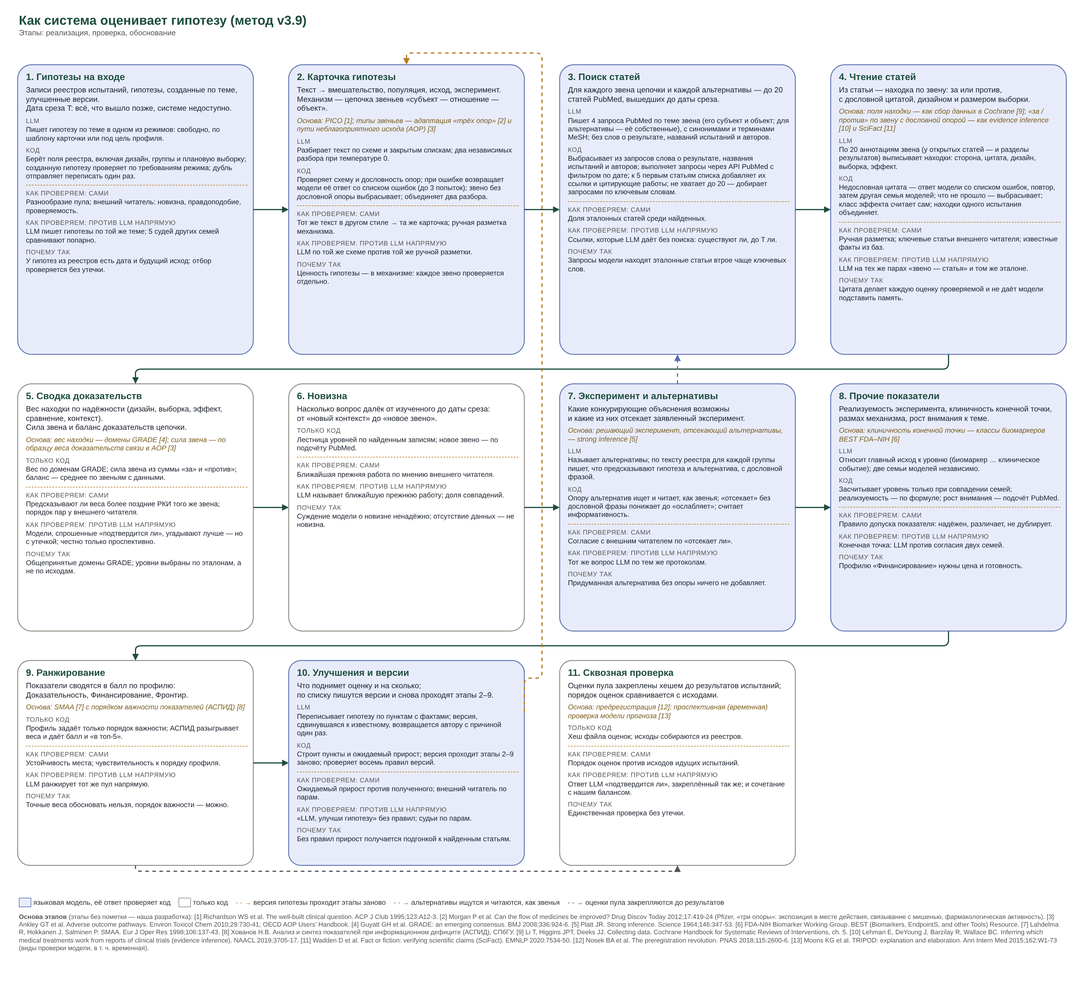
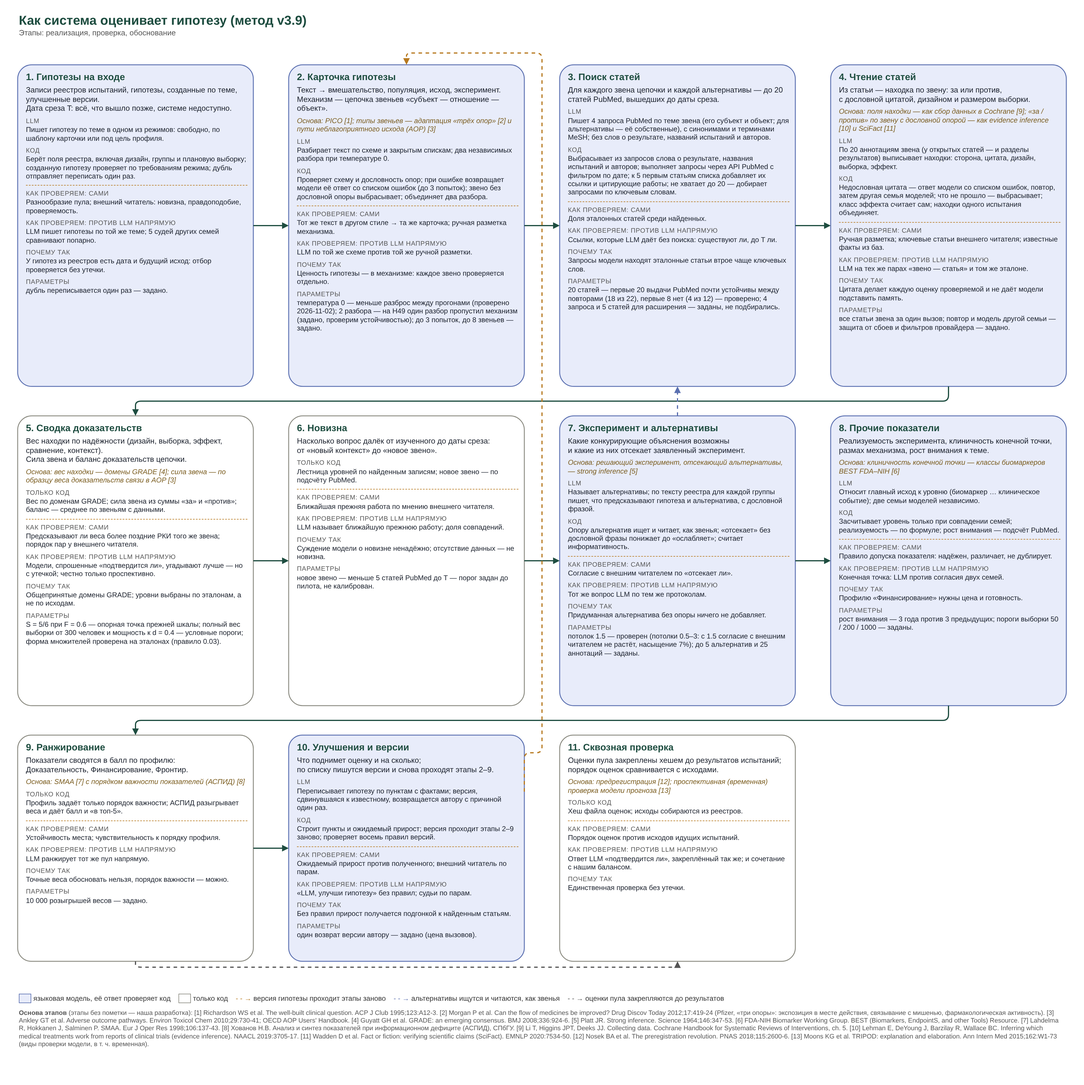
Normaliser v11: a direction for value links (changes_biomarker only without a stated direction); flow scheme: parameters with their provenance per stage; backlog: consensus phrases, H49 re-run, untuned hyperparameters
Claude-Session: https://claude.ai/code/session_015QaY8wcM8f6FoFe6WxnTtU

diff --git a/docs/system/build_flow.py b/docs/system/build_flow.py
@@ -15,7 +15,7 @@ D = Path(__file__).resolve().parent
 
 # stage: name, kind ("llm" = a language model with code checks, "code" = code only), base lines, layers
 STAGES = [
-    dict(name="1. Гипотезы на входе", kind="llm",
+    dict(name="1. Гипотезы на входе", params="дубль переписывается один раз — задано.", kind="llm",
          base=["Записи реестров испытаний, гипотезы, созданные по теме, улучшенные версии.",
                "Дата среза T: всё, что вышло позже, системе недоступно."],
          llm=["Пишет гипотезу по теме в одном из режимов: свободно, по шаблону карточки или под цель профиля."],
@@ -23,7 +23,7 @@ STAGES = [
          own=["Разнообразие пула; внешний читатель: новизна, правдоподобие, проверяемость."],
          base_llm=["LLM пишет гипотезы по той же теме; 5 судей других семей сравнивают попарно."],
          why=["У гипотез из реестров есть дата и будущий исход: отбор проверяется без утечки."]),
-    dict(name="2. Карточка гипотезы", basis="PICO [1]; типы звеньев — адаптация «трёх опор» [2] и пути неблагоприятного исхода (AOP) [3]", kind="llm",
+    dict(name="2. Карточка гипотезы", params="температура 0 — меньше разброс между прогонами (проверено 2026-11-02); 2 разбора — на H49 один разбор пропустил механизм (задано, проверим устойчивостью); до 3 попыток, до 8 звеньев — задано.", basis="PICO [1]; типы звеньев — адаптация «трёх опор» [2] и пути неблагоприятного исхода (AOP) [3]", kind="llm",
          base=["Текст → вмешательство, популяция, исход, эксперимент.",
                "Механизм — цепочка звеньев «субъект — отношение — объект»."],
          llm=['Разбирает текст по схеме и закрытым спискам; два независимых разбора при температуре 0.'],
@@ -31,14 +31,14 @@ STAGES = [
          own=["Тот же текст в другом стиле → та же карточка; ручная разметка механизма."],
          base_llm=["LLM по той же схеме против той же ручной разметки."],
          why=["Ценность гипотезы — в механизме: каждое звено проверяется отдельно."]),
-    dict(name="3. Поиск статей", kind="llm",
+    dict(name="3. Поиск статей", params="20 статей — первые 20 выдачи PubMed почти устойчивы между повторами (18 из 22), первые 8 нет (4 из 12) — проверено; 4 запроса и 5 статей для расширения — заданы, не подбирались.", kind="llm",
          base=["Для каждого звена цепочки и каждой альтернативы — до 20 статей PubMed, вышедших до даты среза."],
          llm=['Пишет 4 запроса PubMed по теме звена (его субъект и объект; для альтернативы — её собственные), с синонимами и терминами MeSH; без слов о результате, названий испытаний и авторов.'],
          code=['Выбрасывает из запросов слова о результате, названия испытаний и авторов; выполняет запросы через API PubMed с фильтром по дате; к 5 первым статьям списка добавляет их ссылки и цитирующие работы; не хватает до 20 — добирает запросами по ключевым словам.'],
          own=["Доля эталонных статей среди найденных."],
          base_llm=["Ссылки, которые LLM даёт без поиска: существуют ли, до T ли."],
          why=["Запросы модели находят эталонные статьи втрое чаще ключевых слов."]),
-    dict(name="4. Чтение статей", basis="поля находки — как сбор данных в Cochrane [9]; «за / против» по звену с дословной опорой — как evidence inference [10] и SciFact [11]", kind="llm",
+    dict(name="4. Чтение статей", params="все статьи звена за один вызов; повтор и модель другой семьи — защита от сбоев и фильтров провайдера — задано.", basis="поля находки — как сбор данных в Cochrane [9]; «за / против» по звену с дословной опорой — как evidence inference [10] и SciFact [11]", kind="llm",
          base=["Из статьи — находка по звену: за или против,",
                "с дословной цитатой, дизайном и размером выборки."],
          llm=['По 20 аннотациям звена (у открытых статей — и разделы результатов) выписывает находки: сторона, цитата, дизайн, выборка, эффект.'],
@@ -46,21 +46,21 @@ STAGES = [
          own=["Ручная разметка; ключевые статьи внешнего читателя; известные факты из баз."],
          base_llm=["LLM на тех же парах «звено — статья» и том же эталоне."],
          why=["Цитата делает каждую оценку проверяемой и не даёт модели подставить память."]),
-    dict(name="5. Сводка доказательств", basis="вес находки — домены GRADE [4]; сила звена — по образцу веса доказательств связи в AOP [3]", kind="code",
+    dict(name="5. Сводка доказательств", params="S = 5/6 при F = 0.6 — опорная точка прежней шкалы; полный вес выборки от 300 человек и мощность к d = 0.4 — условные пороги; форма множителей проверена на эталонах (правило 0.03).", basis="вес находки — домены GRADE [4]; сила звена — по образцу веса доказательств связи в AOP [3]", kind="code",
          base=["Вес находки по надёжности (дизайн, выборка, эффект, сравнение, контекст).",
                "Сила звена и баланс доказательств цепочки."],
          code=["Вес по доменам GRADE; сила звена из суммы «за» и «против»; баланс — среднее по звеньям с данными."],
          own=["Предсказывают ли веса более поздние РКИ того же звена; порядок пар у внешнего читателя."],
          base_llm=["Модели, спрошенные «подтвердится ли», угадывают лучше — но с утечкой; честно только проспективно."],
          why=["Общепринятые домены GRADE; уровни выбраны по эталонам, а не по исходам."]),
-    dict(name="6. Новизна", kind="code",
+    dict(name="6. Новизна", params="новое звено — меньше 5 статей PubMed до T — порог задан до пилота, не калиброван.", kind="code",
          base=["Насколько вопрос далёк от изученного до даты среза:",
                "от «новый контекст» до «новое звено»."],
          code=["Лестница уровней по найденным записям; новое звено — по подсчёту PubMed."],
          own=["Ближайшая прежняя работа по мнению внешнего читателя."],
          base_llm=["LLM называет ближайшую прежнюю работу; доля совпадений."],
          why=["Суждение модели о новизне ненадёжно; отсутствие данных — не новизна."]),
-    dict(name="7. Эксперимент и альтернативы", basis="решающий эксперимент, отсекающий альтернативы, — strong inference [5]", kind="llm",
+    dict(name="7. Эксперимент и альтернативы", params="потолок 1.5 — проверен (потолки 0.5–3: с 1.5 согласие с внешним читателем не растёт, насыщение 7%); до 5 альтернатив и 25 аннотаций — заданы.", basis="решающий эксперимент, отсекающий альтернативы, — strong inference [5]", kind="llm",
          base=["Какие конкурирующие объяснения возможны",
                "и какие из них отсекает заявленный эксперимент."],
          llm=['Называет альтернативы; по тексту реестра для каждой группы пишет, что предсказывают гипотеза и альтернатива, с дословной фразой.'],
@@ -68,7 +68,7 @@ STAGES = [
          own=["Согласие с внешним читателем по «отсекает ли»."],
          base_llm=["Тот же вопрос LLM по тем же протоколам."],
          why=["Придуманная альтернатива без опоры ничего не добавляет."]),
-    dict(name="8. Прочие показатели", basis="клиничность конечной точки — классы биомаркеров BEST FDA–NIH [6]", kind="llm",
+    dict(name="8. Прочие показатели", params="рост внимания — 3 года против 3 предыдущих; пороги выборки 50 / 200 / 1000 — заданы.", basis="клиничность конечной точки — классы биомаркеров BEST FDA–NIH [6]", kind="llm",
          base=["Реализуемость эксперимента, клиничность конечной точки,",
                "размах механизма, рост внимания к теме."],
          llm=['Относит главный исход к уровню (биомаркер … клиническое событие); две семьи моделей независимо.'],
@@ -76,14 +76,14 @@ STAGES = [
          own=["Правило допуска показателя: надёжен, различает, не дублирует."],
          base_llm=["Конечная точка: LLM против согласия двух семей."],
          why=["Профилю «Финансирование» нужны цена и готовность."]),
-    dict(name="9. Ранжирование", basis="SMAA [7] с порядком важности показателей (АСПИД) [8]", kind="code",
+    dict(name="9. Ранжирование", params="10 000 розыгрышей весов — задано.", basis="SMAA [7] с порядком важности показателей (АСПИД) [8]", kind="code",
          base=["Показатели сводятся в балл по профилю:",
                "Доказательность, Финансирование, Фронтир."],
          code=["Профиль задаёт только порядок важности; АСПИД разыгрывает веса и даёт балл и «в топ-5»."],
          own=["Устойчивость места; чувствительность к порядку профиля."],
          base_llm=["LLM ранжирует тот же пул напрямую."],
          why=["Точные веса обосновать нельзя, порядок важности — можно."]),
-    dict(name="10. Улучшения и версии", kind="llm",
+    dict(name="10. Улучшения и версии", params="один возврат версии автору — задано (цена вызовов).", kind="llm",
          base=["Что поднимет оценку и на сколько;",
                "по списку пишутся версии и снова проходят этапы 2–9."],
          llm=['Переписывает гипотезу по пунктам с фактами; версия, сдвинувшаяся к известному, возвращается автору с причиной один раз.'],
@@ -174,6 +174,10 @@ def stage_html(s: dict, layers: list[str]) -> tuple[str, int]:
         h, k = section("Почему так", s["why"], BW)
         html += h
         n += k
+        if s.get("params"):                  # hyperparameters and where each comes from (user 2026-11-11)
+            h, k = section("Параметры", [s["params"]], BW)
+            html += h
+            n += k
     return html, n
 
 

diff --git a/tests/test_search_context.py b/tests/test_search_context.py
@@ -52,3 +52,9 @@ def test_the_outcome_line_is_the_link_own_object(monkeypatch):
     c1 = CARD.claims[0].model_copy(update={"qualifiers": {"measure": "physical performance"}})
     model_queries(None, "f", frozenset(), c1, CARD, "2026-11-06")
     assert seen["outcome"] == "physical performance"
+
+
+def test_normalizer_v11_asks_for_a_direction_on_value_links():
+    from hyparena.llm.prompts import render
+    t = render("normalize_card", "v11", text="x", relations="promotes, changes_biomarker", hallmarks="", hint="", history_text="")
+    assert "use changes_biomarker only when the text gives no direction" in t

diff --git a/docs/backlog.md b/docs/backlog.md
@@ -27,3 +27,6 @@ Items the user decided to defer; each points to its spec. Kept until done or dro
 | 2026-11-11 (ids done 2026-11-11: `hyparena/short_ids.py`, registry `longevity-kg/hypothesis_db/short_ids.jsonl`, one numbering with a leading zero) | Report: short ids are computed in the page from the registry ids (they shift if the pool changes): store them in the pool data; link and alternative labels are the registry's English | `hyparena/templates/pool_report_v2.html`, `hyparena/report_v2.py` | free |
 | 2026-11-11 | Mechanism decomposition: typed chain (C) against outcome only (A) and a free untyped chain (B); no completion from knowledge (user) | `specs/mechanism-chain-comparison-2026-11-11.yaml` | text list (free), prompt mechanism_free/v1, dry run with price, Argon pack for the gold |
 | 2026-11-11 | Search: a code check that a query is on its link's topic (each query names the link's object or a MeSH synonym) | H49 walkthrough, stage 3 | at the recalibration: on the saved queries of the pools, how many it would cut and whether those found papers |
+| 2026-11-11 | Reading: a record needs a result (a comparison or an effect); consensus phrases of reviews without data ("resistance exercise is the mainstay of treatment") are not records | H49 walkthrough, stage 4 | check on the reading gold (packs 8, 9) before a manual change |
+| 2026-11-11 | Re-run H49 under the new rules (two parses, normaliser v11, exact-population query, the link's own outcome, alternatives on their own terms, reader v11): is Vikberg 2019 found, what happens to body composition | H49 walkthrough | dry run with the named price (about 0.05-0.1 USD), off-peak, user's go |
+| 2026-11-11 | Hyperparameters set without tuning: 4 queries per link, 5 seed papers for the citation step, the PubMed absence threshold 5, 2 parses of the card | flow scheme, layer "why" (Параметры) | at the recalibration: sensitivity on the retrieval gold (2 / 4 / 6 queries, 3 / 5 / 10 seeds) and on the card stability |

diff --git a/docs/walkthrough/H49.md b/docs/walkthrough/H49.md
@@ -199,3 +199,8 @@ benefi-, prevent-, …), если их нет в самой карточке, и
 | Одни и те же метаанализы (34911483, 37057640) засчитаны и на c1, и на c3 | кандидат C2 (одна находка на нескольких звеньях) — проверка у Codex |
 | Ключевая нулевая работа по точной популяции (Vikberg 2019, PMID 30414822: силовая программа при пре-саркопении, SPPB без различий) поиском не найдена вовсе — баланс «всё за» | запрос по точной популяции теперь включён; проверить повторным прогоном H49 |
 | Пул читался промптом v9; правила чтения v10–v11 (уровень класса по тому, как назвал гипотезу, и др.) появились позже | повторный прогон H49 покажет разницу |
+
+**Решения по этапу 4 (2026-11-11):** направление у звеньев-показателей — правило шаблона карточки v11 (мануал, раздел 3; рабочий
+конфиг на v11). Фразы-консенсус без данных и повторный прогон H49 — в backlog. На схеме в слое «Почему так» у каждого этапа
+строка «Параметры»: значение и откуда оно (проверено на данных или задано без подбора); незаданные подбором — в backlog на
+перекалибровку.

diff --git a/docs/method-v3-manual.md b/docs/method-v3-manual.md
@@ -116,7 +116,13 @@ carried over; a field of the experiment or the population unknown in the first p
 keeps the first and is recorded. The agreement of the parses (shared claims / all claims) is kept as the card's stability.
 Cards made before 2026-11-11 come from one parse.
 
-**What the normaliser is given** (`hyparena/prompts/normalize_card/v10.j2`): the text only (for a registry trial the
+**A direction for value links** (normaliser v11, user decision 2026-11-11). "Changes a value" (`changes_biomarker`) is
+kept only when the text gives no direction anywhere; otherwise the link says which way ("promotes", "suppresses", or
+"improves healthspan" with the measure), with the span from the sentence that states it. On H49 the undirected link
+"squats change body composition" got 11 findings from the reader, all "neither": with no direction there is no side to take,
+and a null on muscle mass could not count against.
+
+**What the normaliser is given** (`hyparena/prompts/normalize_card/v11.j2`): the text only (for a registry trial the
 registry fields as "Name: value" lines, section 2), the closed lists of relations and hallmarks, the rules for every field,
 two worked examples of other hypotheses and an empty JSON skeleton. Not the date T, not the literature, not other
 hypotheses. The code then checks the schema and the verbatim spans (up to three rounds; a claim without a verbatim span is
